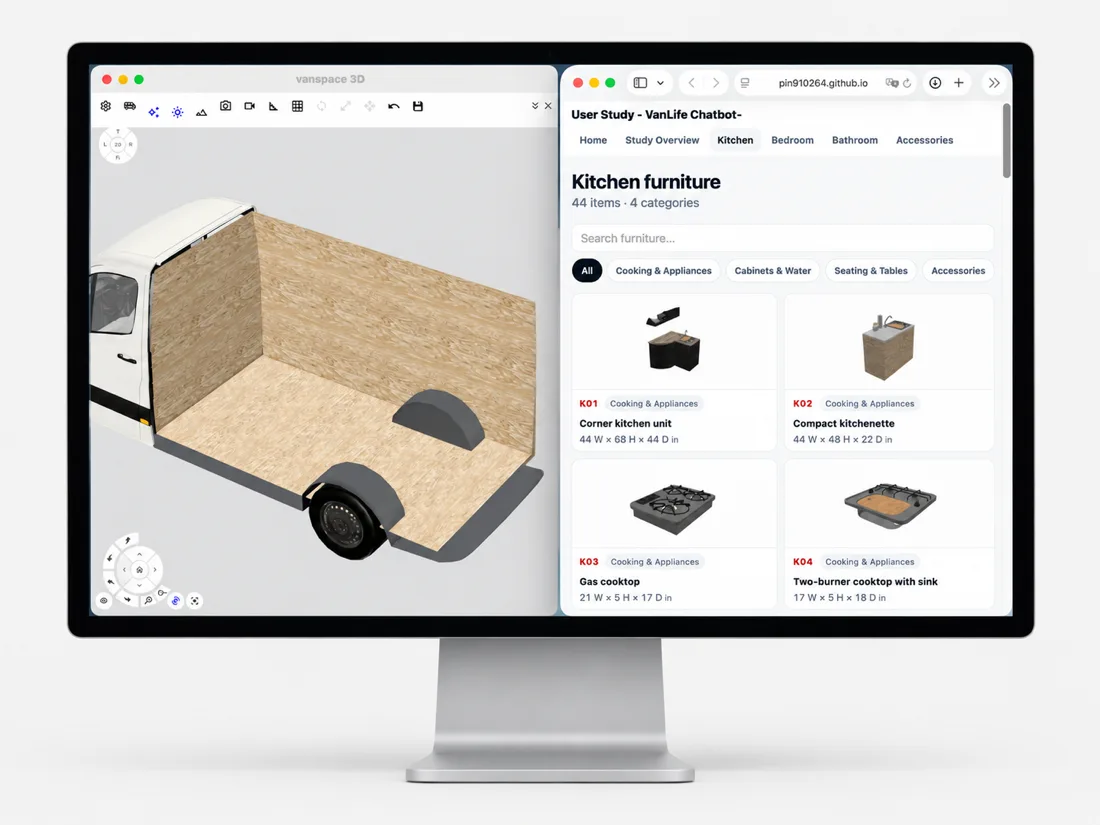
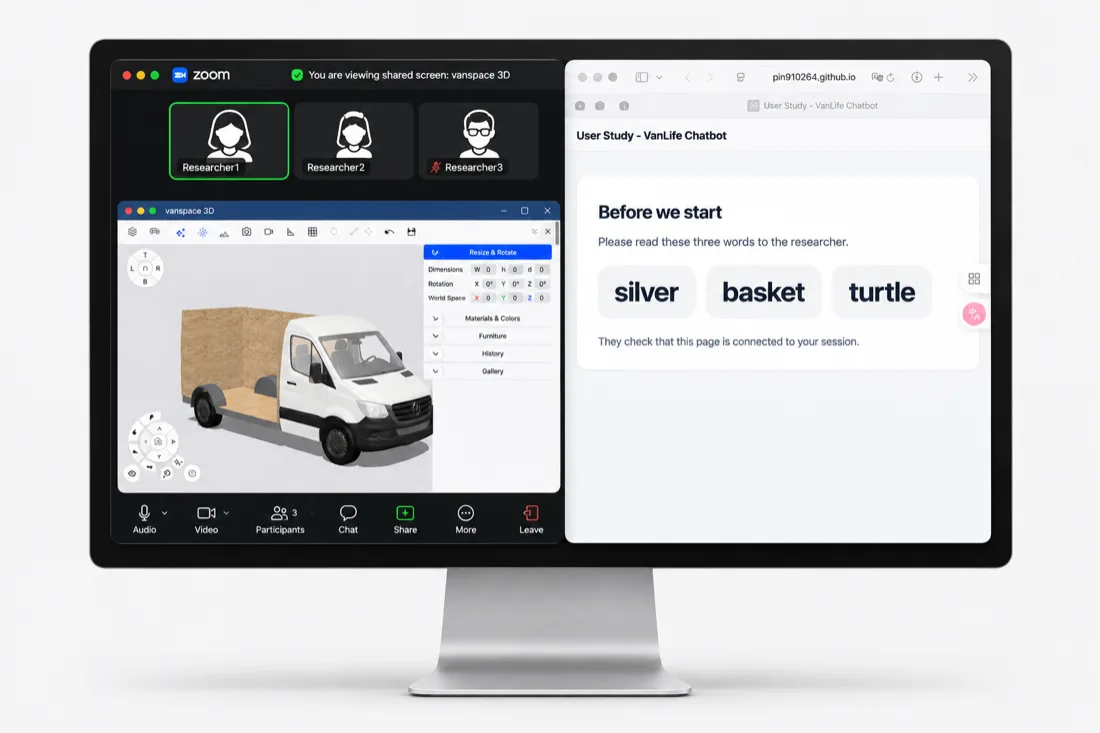
Link check: the card says Zoom and the study website, never 'this page' (STACEY-DRY-RUN notes), and the layout picture is the new screenshot — Zoom with the shared 3D van on the left, the website on the right (single.png, 11-11, 33 KB)

diff --git a/live.js b/live.js
@@ -390,9 +390,9 @@
       stageBox.appendChild(c);
     } else if (st === 'check') {
       const c = document.createElement('div'); c.className = 'card';
-      c.innerHTML = '<h2>Your screen</h2><p>Two things side by side: the 3D van from the researcher\'s screen share, and this page, where the furniture catalog will open.</p>'
+      c.innerHTML = '<h2>Zoom and the study website</h2><p>Two windows side by side: Zoom, where the researcher shares the 3D van, and this website, where the furniture catalog will open.</p>'
         + '<img class="layout" src="img/screen-layout.webp" alt="One screen split in two: the 3D van on the left, this page on the right">'
-        + '<p class="cap">Arrange your screen like this, with the shared van on one side and this page on the other.</p>'
+        + '<p class="cap">Arrange your screen like this: Zoom with the van on one side, this website on the other.</p>'
         + '<p>Then read these three words to the researcher.</p><div class="words"></div><p class="hint">They check that this page is connected to your session.</p>';
       stageBox.appendChild(c);
     } else if (st === 'demo') {
